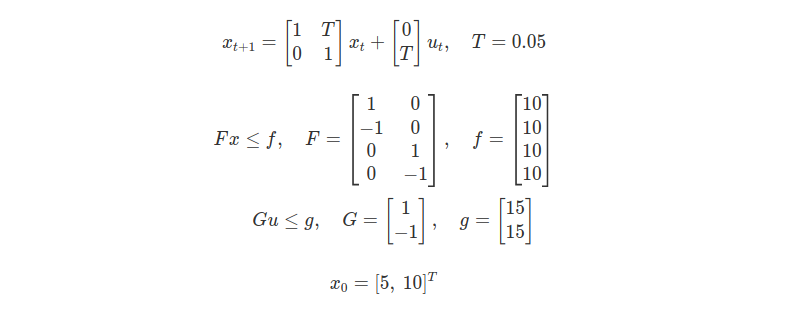
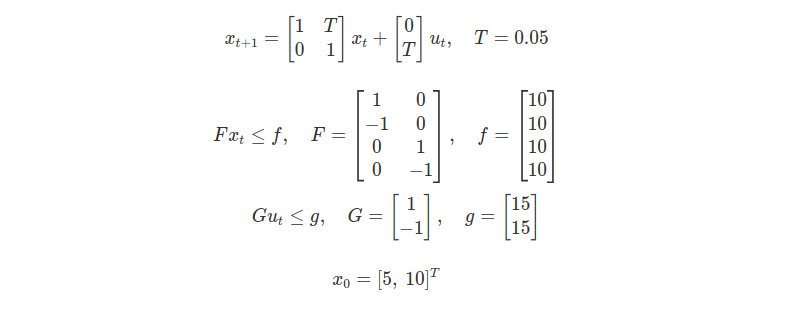
Fix typo in README.md

diff --git a/work/work.md b/work/work.md
@@ -27,7 +27,7 @@ u_t, \quad T = 0.05 \\[5mm]
 $$
 
 $$
-F x \leq f, \quad F = 
+F x_t \leq f, \quad F = 
 \begin{bmatrix}
 1 & 0  \\
 -1 & 0  \\
@@ -41,7 +41,7 @@ F x \leq f, \quad F =
 10  \\
 10  \\
 \end{bmatrix} \\[2mm]
-\quad G u \leq g , \quad G = 
+\quad G u_t \leq g , \quad G = 
 \begin{bmatrix}
 1  \\
 -1 \\
